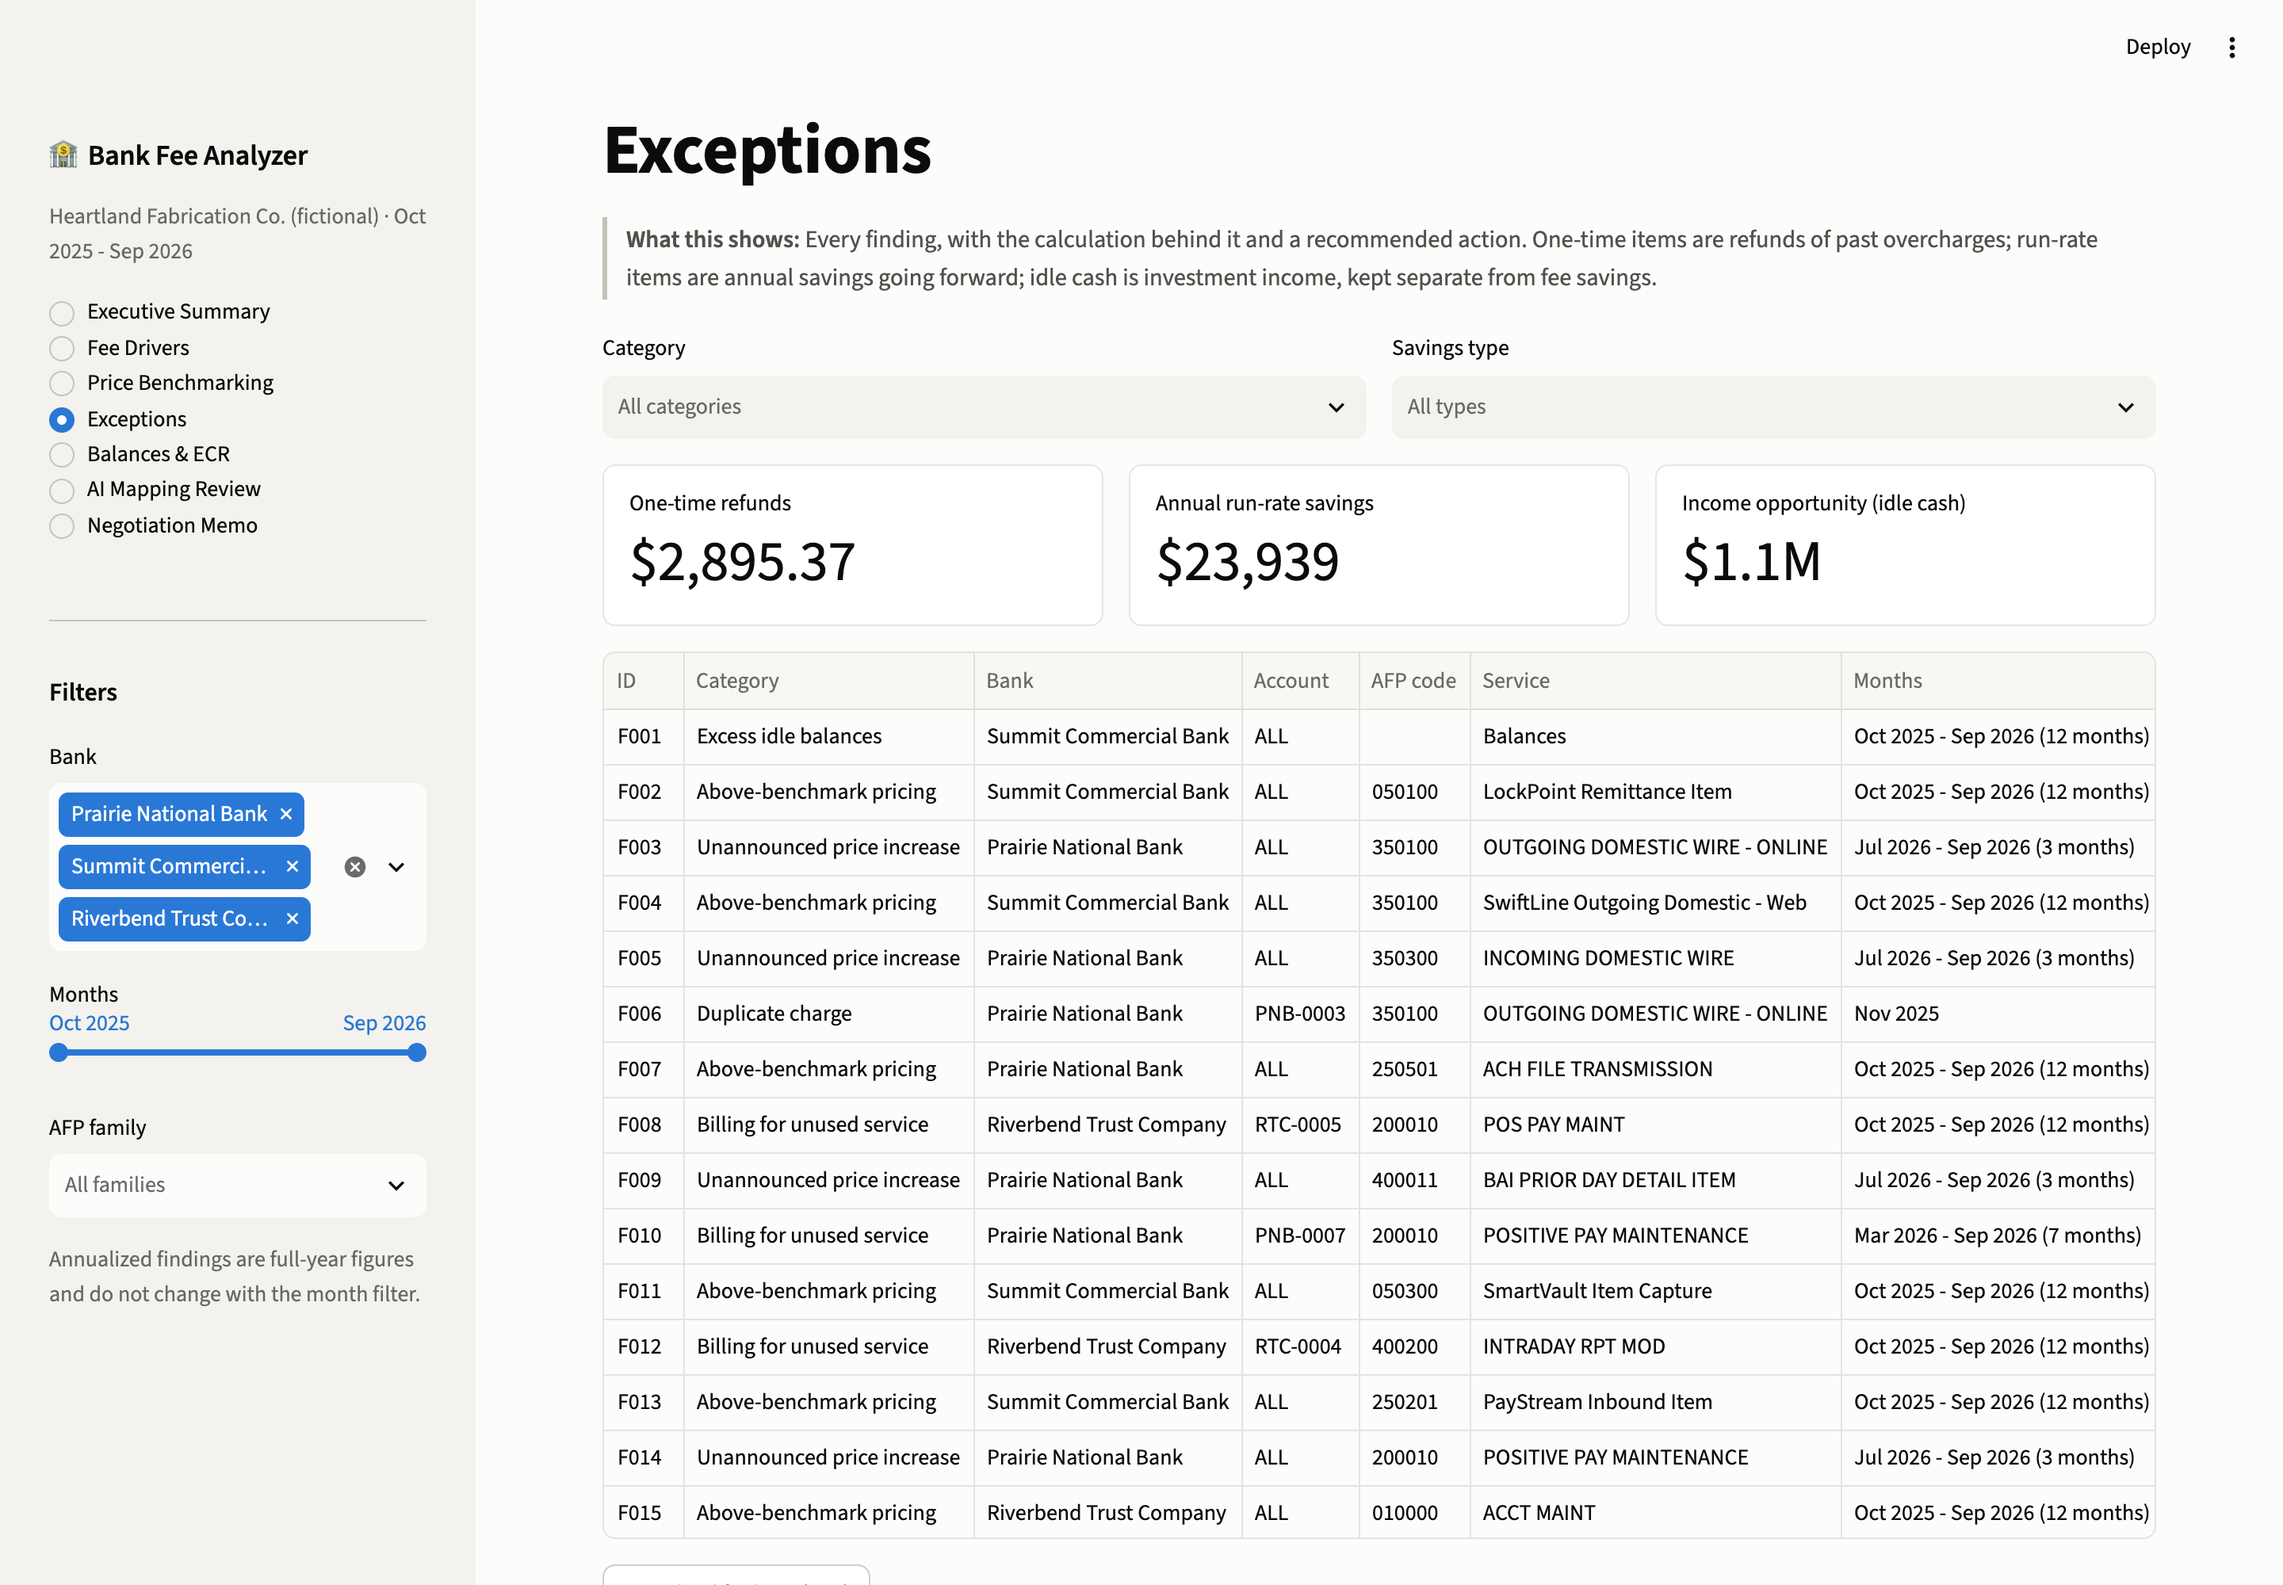
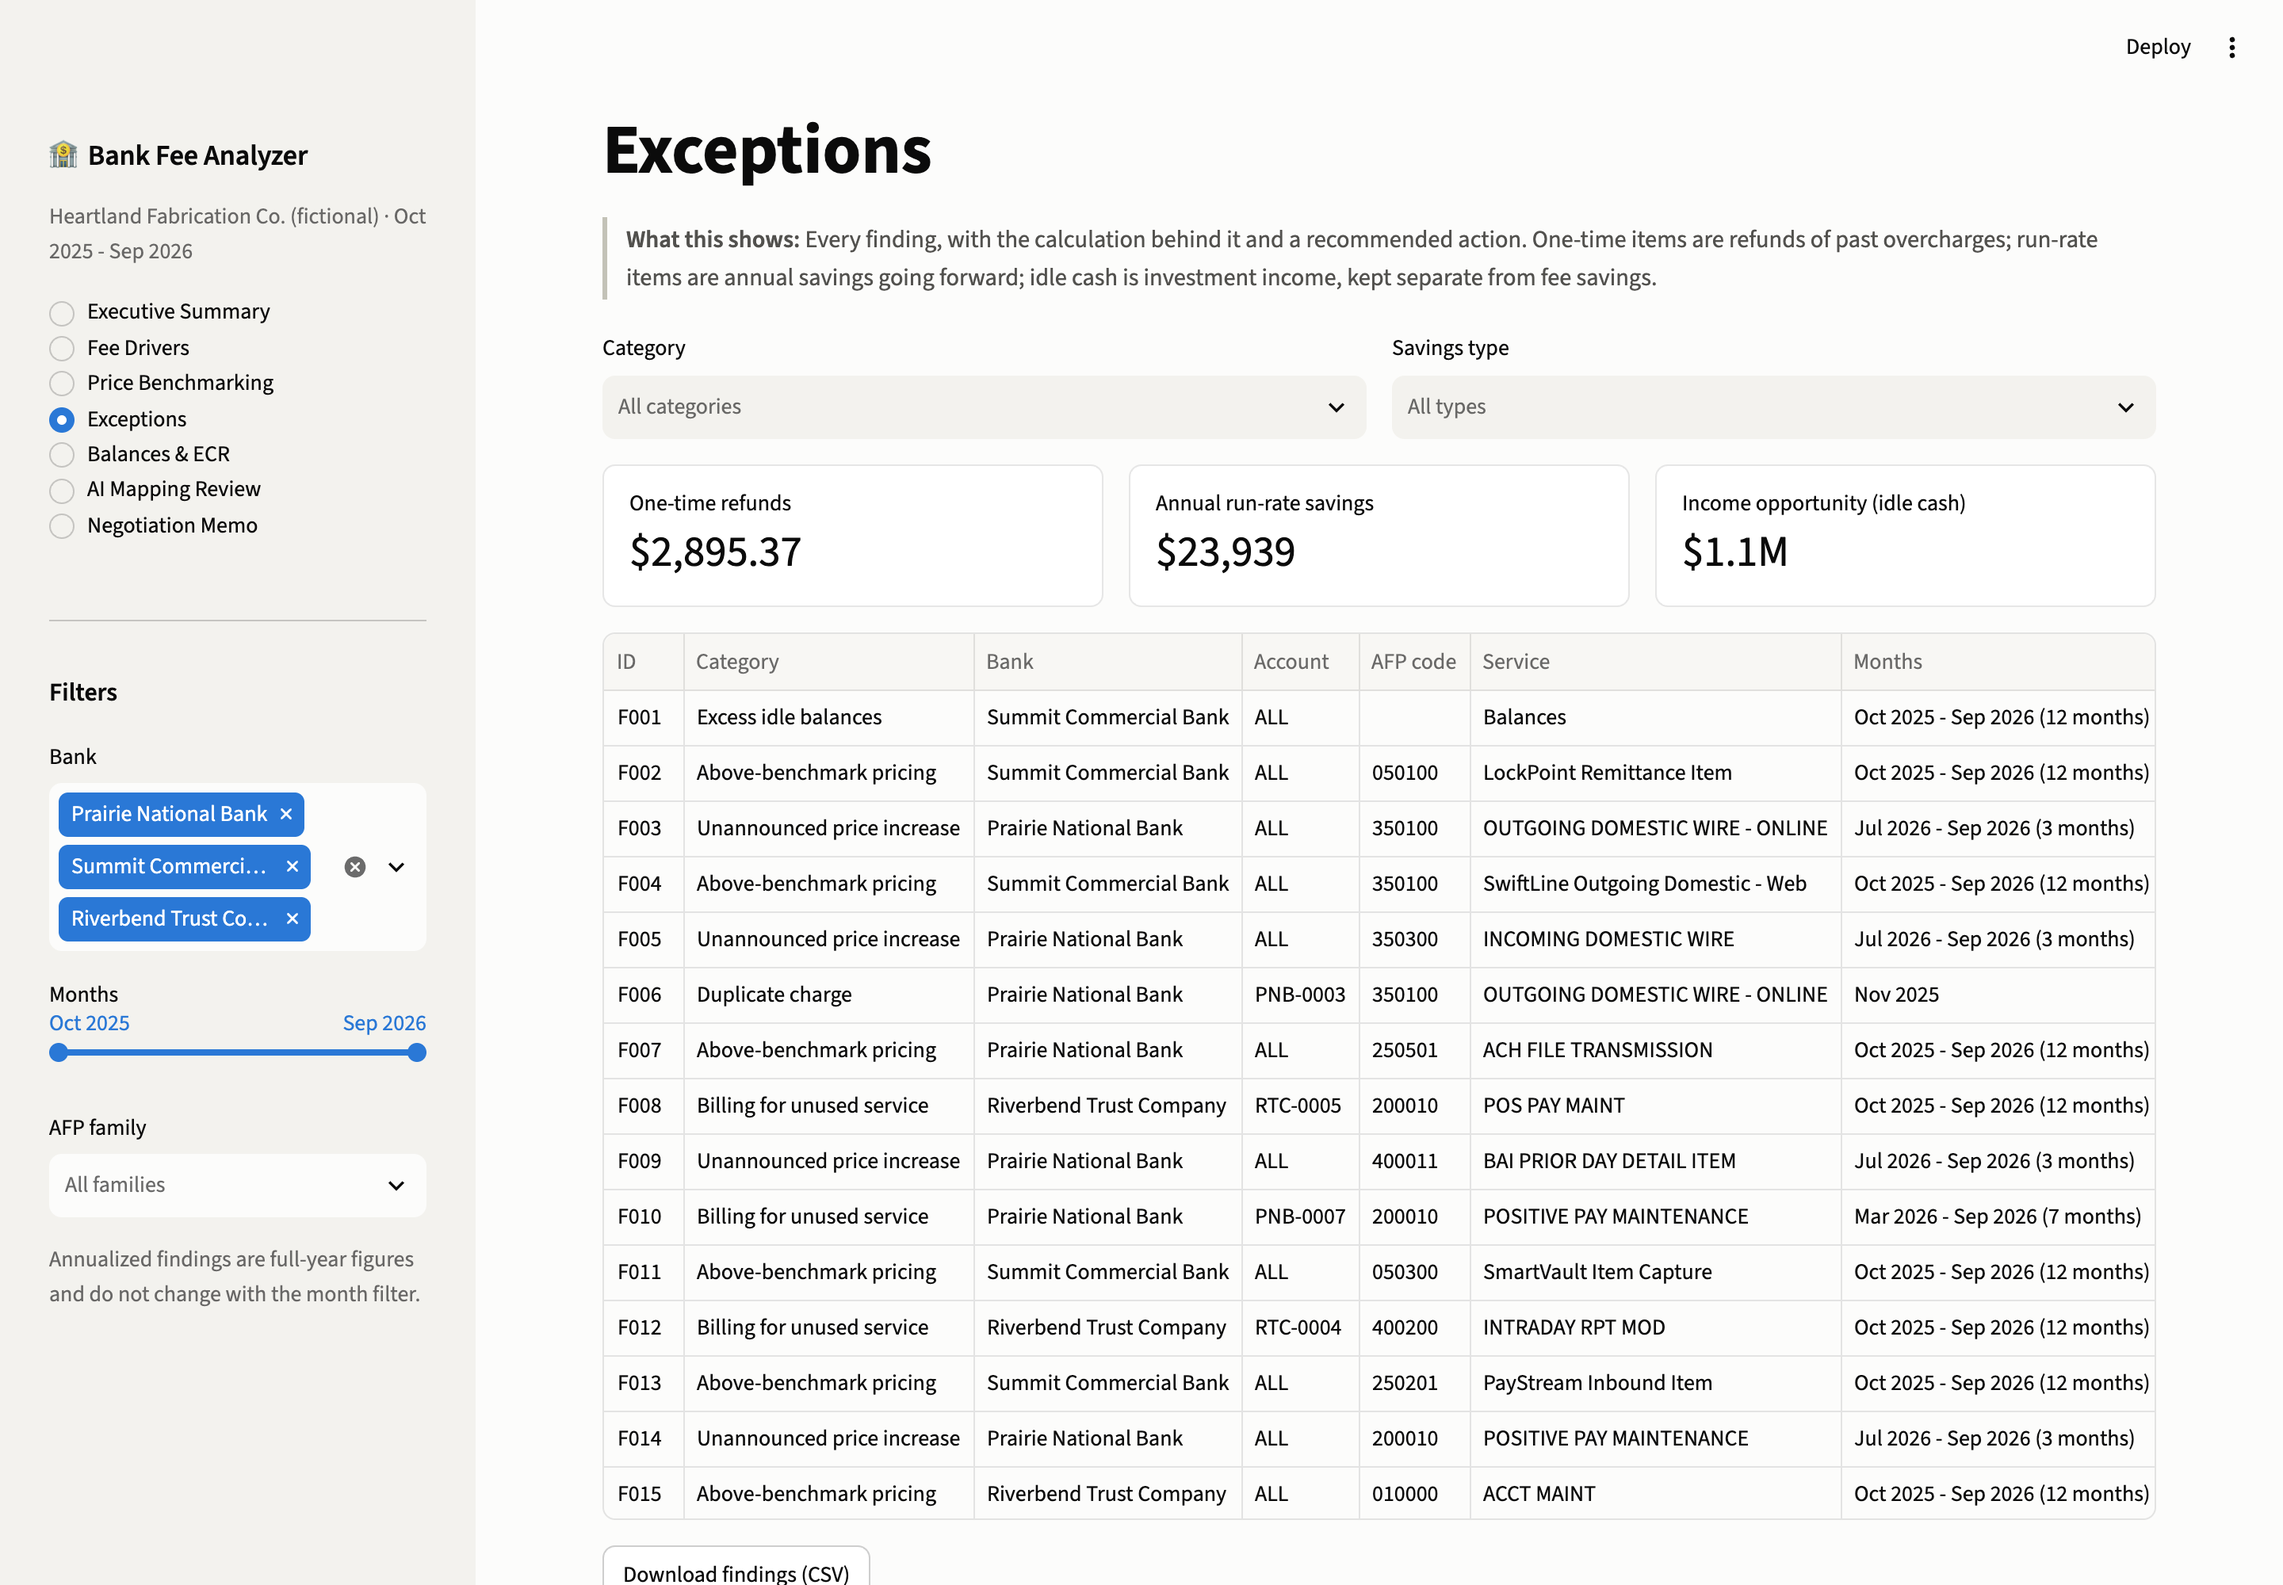
Fit KPI cards on laptop screens and add live dashboard link
KPI values scale with screen width, card labels are shorter, and small-multiple
panel titles use short bank names so they never overlap. Refreshes screenshots
and links the deployed Streamlit app from the README.

diff --git a/app/streamlit_app.py b/app/streamlit_app.py
@@ -41,6 +41,10 @@ st.markdown("""
   div[data-testid="stMetric"] {background: #ffffff; border: 1px solid rgba(11,11,11,0.10);
       border-radius: 8px; padding: 12px 16px;}
   div[data-testid="stMetricLabel"] p {color: #52514e; font-size: 0.85rem;}
+  /* KPI values shrink with the screen instead of being cut off ("$233.…") on laptops */
+  div[data-testid="stMetricValue"] {font-size: clamp(1.3rem, 1.9vw, 2.1rem);}
+  div[data-testid="stMetricValue"] *, div[data-testid="stMetricLabel"] * {
+      overflow: visible !important; text-overflow: clip !important; white-space: normal !important;}
   .what-this-shows {color: #52514e; font-size: 0.95rem; border-left: 3px solid #c3c2b7;
       padding: 2px 0 2px 12px; margin: 0 0 1.2rem 0;}
   .footer {color: #898781; font-size: 0.8rem; border-top: 1px solid #e1e0d9;
@@ -64,6 +68,12 @@ def money(x, cents=False, compact=False):
     return f"{sign[0]}{text}{sign[1]}"
 
 
+def panel_title(text):
+    """Small-multiple titles: 'bank=Prairie National Bank' -> 'Prairie' (short, so panels never overlap)."""
+    name = text.split("=")[-1]
+    return name.split()[0] if name in BANK_COLORS else name
+
+
 def style(fig, height=380, legend=True):
     """Shared chart chrome: light surface, hairline grid, muted axes, legend on top."""
     fig.update_layout(
@@ -75,7 +85,7 @@ def style(fig, height=380, legend=True):
     )
     fig.update_xaxes(gridcolor=GRID, linecolor=AXIS, zeroline=False, tickfont=dict(color=MUTED))
     fig.update_yaxes(gridcolor=GRID, linecolor=AXIS, zeroline=False, tickfont=dict(color=MUTED))
-    fig.for_each_annotation(lambda a: a.update(text=a.text.split("=")[-1], font=dict(color=INK, size=13)))
+    fig.for_each_annotation(lambda a: a.update(text=panel_title(a.text), font=dict(color=INK, size=13)))
     return fig
 
 
@@ -194,11 +204,11 @@ def executive_summary():
         help="All service charges in the selected period")
     kpi(cols[1], "Earnings credit", money(comp["earnings_allowance"].sum(), compact=True), "non-cash, on balances",
         help="Credit the banks gave on balances: investable balance x ECR x days/basis")
-    kpi(cols[2], "Net cash charges", money(comp["net_service_charge"].sum(), compact=True), "fees paid in cash",
+    kpi(cols[2], "Cash charges", money(comp["net_service_charge"].sum(), compact=True), "fees paid in cash",
         help="Fees not covered by earnings credit, plus hard charges (e.g. FDIC at Riverbend)")
-    kpi(cols[3], "Fee savings found", f"{money(run_rate, compact=True)}/yr", f"plus {money(one_time)} in refunds",
+    kpi(cols[3], "Savings found", f"{money(run_rate, compact=True)}/yr", f"plus {money(one_time)} in refunds",
         help="Annual run-rate savings from pricing and unused services, plus one-time refunds of past errors")
-    kpi(cols[4], "Avg. excess balances", money(excess, compact=True), f"{money(income)}/yr income opportunity",
+    kpi(cols[4], "Excess cash", money(excess, compact=True), f"{money(income)}/yr income opportunity",
         help="Collected balance above what is needed to offset fees; income at the money market yield")
 
     st.subheader("Monthly analyzed fees vs. earnings allowance")

diff --git a/README.md b/README.md
@@ -2,6 +2,8 @@
 
 **An AI-assisted review of a year of bank account analysis statements: it finds overcharges, benchmarks prices, checks earnings credits, and drafts the negotiation memo.**
 
+**▶ [Open the live dashboard](https://bank-fee-analyzer-sinbbrau42siubj8nphcat.streamlit.app/)** (no sign-in needed)
+
 > All companies, banks, and data are fictional. Benchmark prices are illustrative, not market survey data.
 
 ## The business problem
